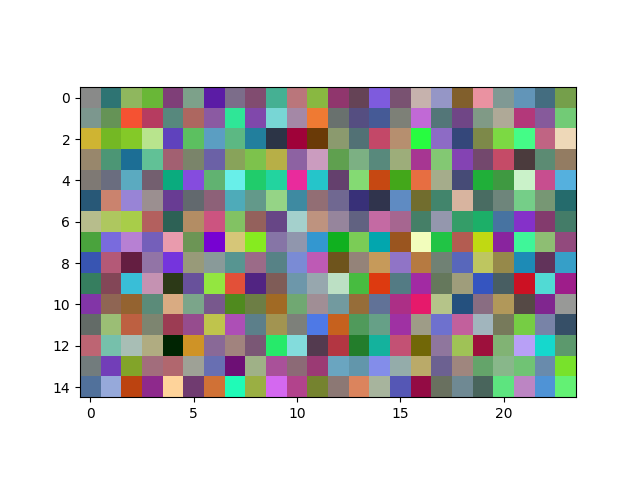
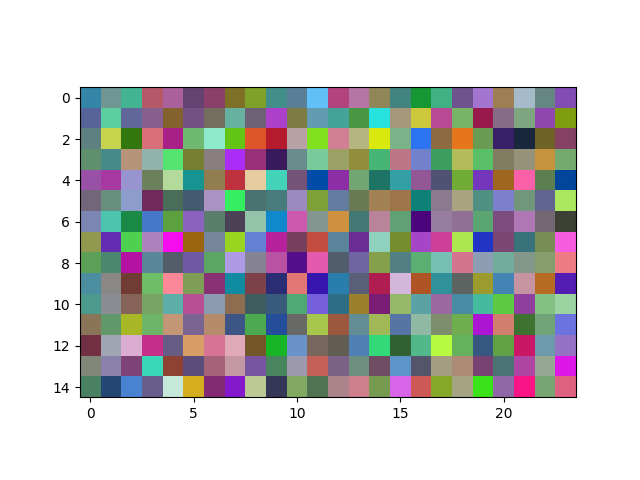
image class finished

diff --git a/example34.py b/example34.py
@@ -29,10 +29,22 @@ class Image:
         self.width = width
         self.size = (height, width)
         self.color = resized
-        print(resized)
 
     def randomize(self):
         self.color = np.random.randint(255, size=(self.height, self.width, 3))
+
+    def read_image(self, file_name):
+        df = pd.read_table(f"{file_name}.txt", delimiter=",")
+        height = df["H"].iloc[-1] + 1
+        width = df["W"].iloc[-1] + 1
+        canvas = np.empty((height, width, 3), dtype=int)
+        vector = np.array(df[["R", "G", "B"]])
+        for i in range(len(df)):
+            canvas[df["H"].iloc[i], df["W"].iloc[i]] = vector[i]
+        self.height = height
+        self.width = width
+        self.size = (height, width)
+        self.color = canvas
 
     def save(self, name="output"):
         plt.imshow(self.color)
@@ -46,3 +58,7 @@ img.randomize()
 img.save("output_1")
 img.change_size(15, 24)
 img.save("output_2")
+img.read_image("example_image")
+img.save("output_3")
+img.change_size(64, 116)
+img.save("output_4")
